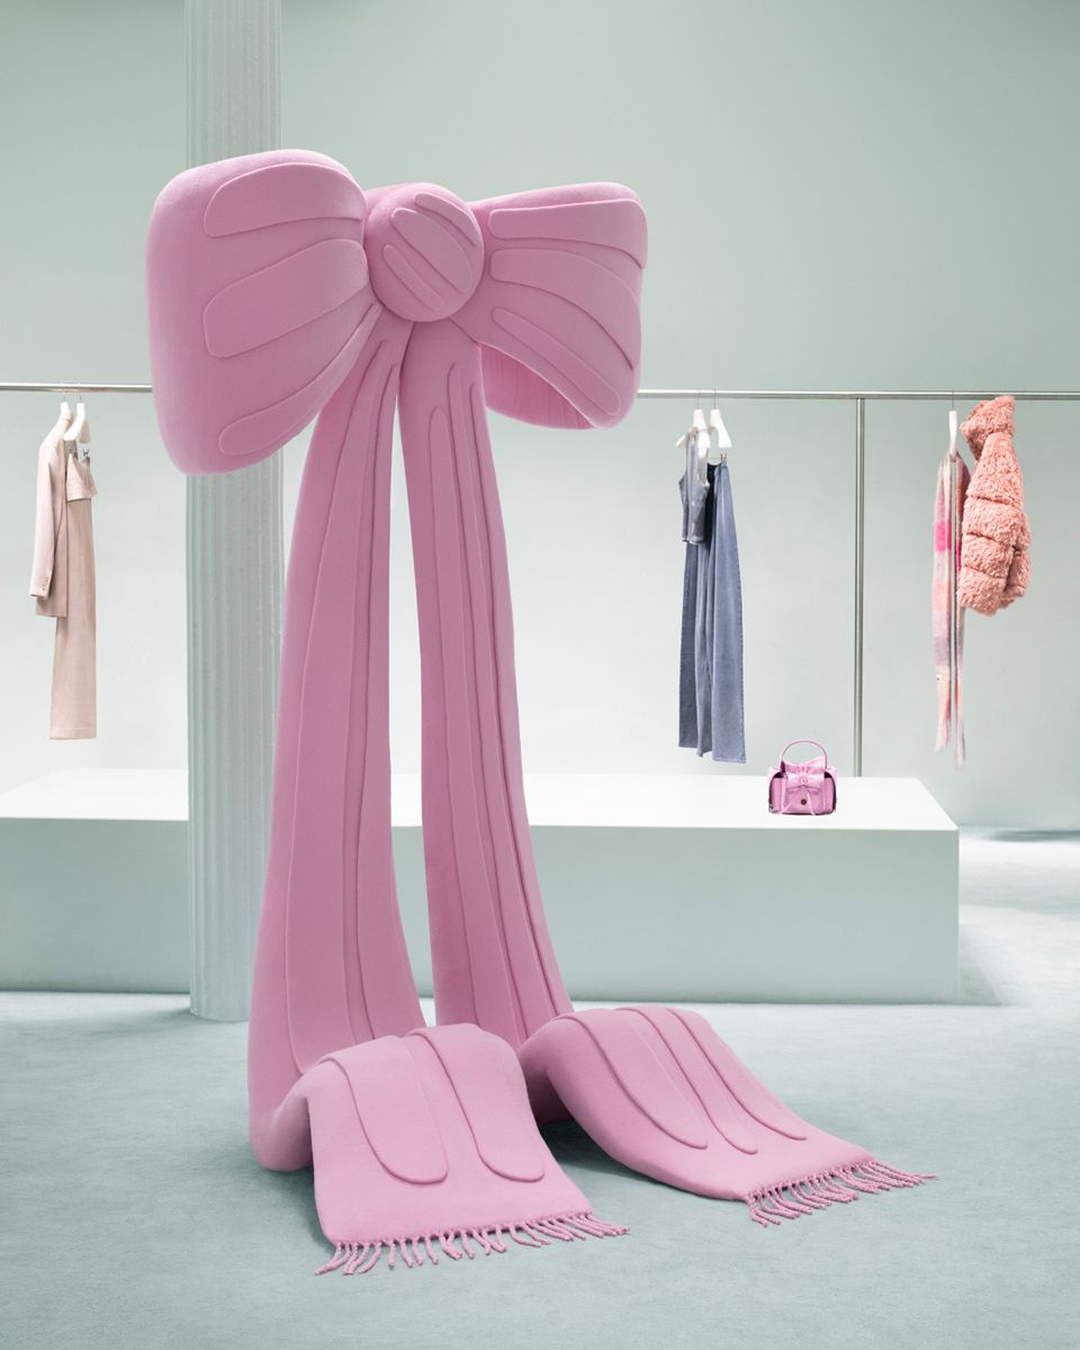
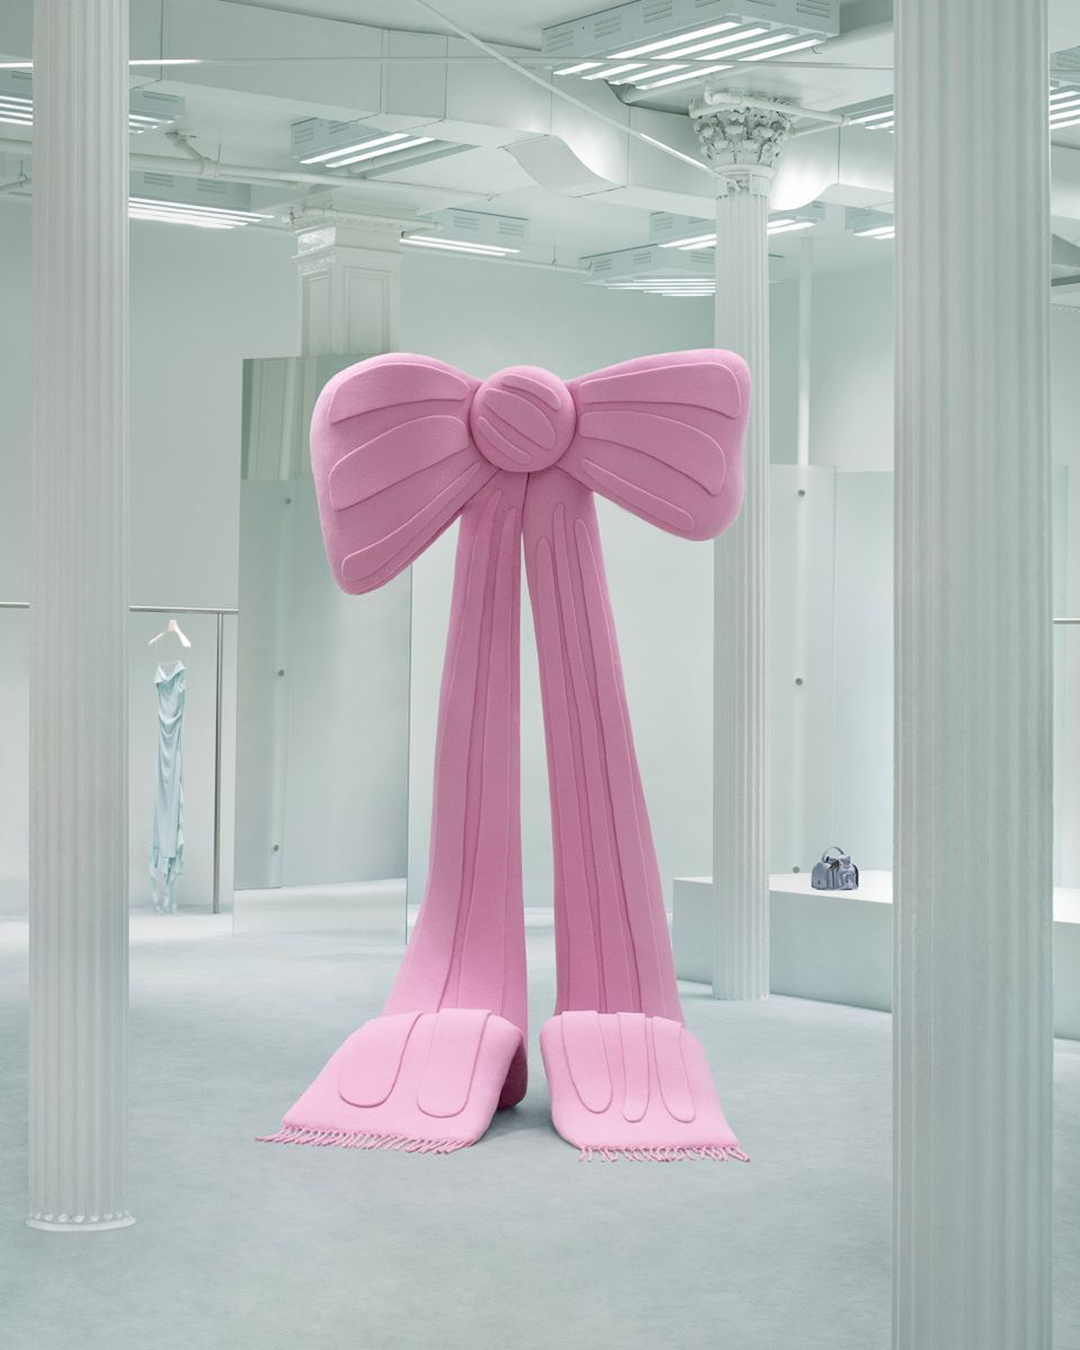
replace image

diff --git a/README.md b/README.md
@@ -2,7 +2,7 @@
 
 _What happens when a digital screen stops asking for your attention and simply behaves like paper?_
 
-reverie is an off-duty visual study exploring how a digital display can behave like a physical art print rather than an interactive interface. Modern web design often relies on high-contrast hooks, constant motion, and utility-driven triggers that demand clicks and immediate engagement. This piece intentionally steps back from those conventions to create a quiet, unhurried pocket of stillness on the screen. The layout invites the viewer to simply pause and look rather than scan for tasks, prioritizing stillness over utility. A cool off-white canvas paired with muted slate-blue serif typography softens screen glare and mimics natural ink resting on textured cotton paper. Three physical subjects—plush fabric, brushed metal, and frosted glass—are framed with generous negative space and subtle corner roundness to echo gallery prints. Subtle hover states—a slow gallery zoom and a hairline colophon underline—are whisper-quiet micro-interactions used to preserve the calm atmosphere without breaking the illusion of stillness.
+reverie is an off-duty visual study exploring how a digital display can behave like a physical art print rather than an interactive interface. Modern web design often relies on high-contrast hooks, constant motion, and utility-driven triggers that demand clicks and immediate engagement. This piece intentionally steps back from those conventions to create a quiet, unhurried pocket of stillness on the screen. The layout invites the viewer to simply pause and look rather than scan for tasks, prioritizing stillness over utility. A cool off-white canvas paired with muted slate-blue serif typography softens screen glare and mimics natural ink resting on textured cotton paper. Three physical subjects—textiles, brushed metals, and frosted glass—are framed with generous negative space and subtle corner roundness to echo gallery prints. Subtle hover states—a slow gallery zoom and a hairline colophon underline—are whisper-quiet micro-interactions used to preserve the calm atmosphere without breaking the illusion of stillness.
 
 ## Acknowledgments
 
